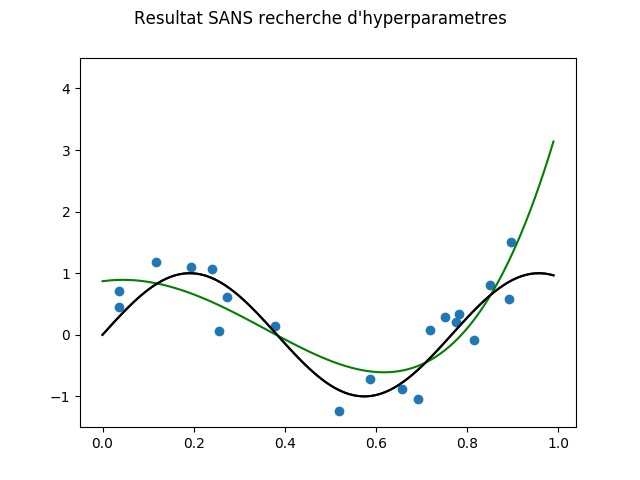
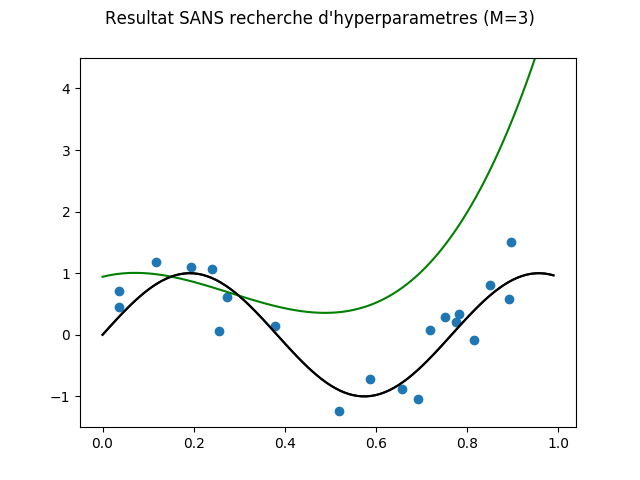
error computation function

diff --git a/TP1/solution_regression.py b/TP1/solution_regression.py
@@ -2,7 +2,7 @@
 
 #####
 # Jeremie Beliveau-Lefebvre (04494470)
-# Sebastien Leblanc (Matricule)
+# Sebastien Leblanc         (18206273)
 ###
 
 import numpy as np
@@ -25,12 +25,11 @@ class Regression:
         NOTE : En mettant phi_x = x, on a une fonction de base lineaire qui fonctionne pour une regression lineaire
         """
         # AJOUTER CODE ICI
-        phi_x = [x**i for i in range(0,self.M+1)]
+        phi_x = x
+        if self.M > 0:
+            phi_x = [0,]+[x**i for i in range(0,self.M+1)]
 
-        if phi_x:
-            return np.array(phi_x)
-        else:
-            return x
+        return phi_x
 
     def recherche_hyperparametre(self, X, t):
         """
@@ -84,7 +83,7 @@ class Regression:
         if using_sklearn:
             clf = linear_model.Ridge(alpha=self.lamb)
             clf.fit(phi_x,t)
-            self.w = clf.coef_
+            self.w = clf.intercept_ + clf.coef_
         else:
             a = (self.lamb*np.identity(phi_x.shape[1]) + np.matmul(phi_x.transpose(),phi_x))
             b = np.matmul(phi_x.transpose(),t)
@@ -114,4 +113,5 @@ class Regression:
         la cible ``t`` et la prediction ``prediction``.
         """
         # AJOUTER CODE ICI
-        return 0.0
+        r2 = (t-prediction)**2
+        return r2

diff --git a/TP1/regression.py b/TP1/regression.py
@@ -80,9 +80,9 @@ def main():
     gestionnaire_donnees.afficher_donnees_et_modele(np.arange(0, 1, 0.01), predictions_range, False)
 
     if m >= 0:
-        plt.suptitle('Resultat SANS recherche d\'hyperparametres')
+        plt.suptitle('Resultat SANS recherche d\'hyperparametres (M={})'.format(regression.M))
     else:
-        plt.suptitle('Resultat AVEC recherche d\'hyperparametres')
+        plt.suptitle('Resultat AVEC recherche d\'hyperparametres (M={})'.format(regression.M))
     plt.savefig('figure.png')
     plt.show()
 
